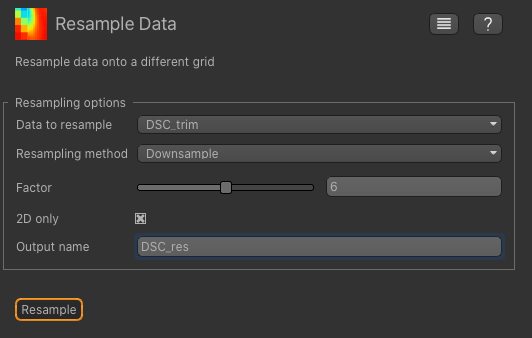
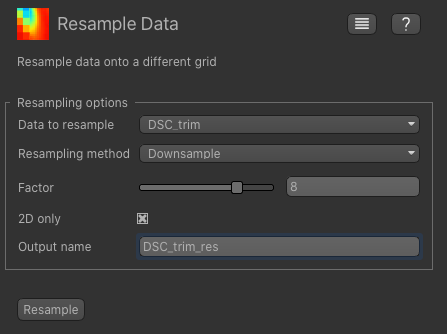
Text tweaks and screenshot updates for DSC tutorial

diff --git a/doc/dsc/dsc_tutorial.rst b/doc/dsc/dsc_tutorial.rst
@@ -27,7 +27,7 @@ If you are taking part in an organized practical workshop, the data required may
 directory, in the ``course_data/dsc`` folder. If not, you will have been given instructions
 on how to obtain the data from the course organizers.
 
-We will start by loading the main DSC data file for the subject ``patient-03`:
+We will start by loading the main DSC data file for the subject ``patient-03``:
 
   - ``DSC.nii.gz``
 
@@ -123,8 +123,9 @@ First we need to take the mean of the DSC timeseries so we have a 3D data set. T
 
 .. image:: /screenshots/dsc_mean.png
 
-From the ``Widgets`` menu select ``FSL->BET`` and then as input data choose our resampled DSC data ``DSC_res``.
-Check the ``Output mask`` option so we get a binary ROI mask for the brain. 
+Now, from the ``Widgets`` menu select ``FSL->BET`` and then as input data choose the mean of our trimmed 
+and resampled DSC data ``DSC_trim_res_mean``. Check the ``Output brain mask`` option so we get a binary 
+ROI mask for the brain. 
 
 .. image:: /screenshots/dsc_bet.png
 
@@ -150,7 +151,8 @@ AIF
 Analysis of DSC data requires the arterial input function to be specified. This is a timeseries that corresponds to
 the supply of the bolus in a feeding artery. The AIF can be defined in various ways, in the case of this data set
 we have already identified a feeding artery in the image and created a small ROI mask identifying it. To load this ROI,
-load the file ``AIFx4.nii.gz`` either from ``File->Load`` or by drag and drop.
+load the file ``AIFx4.nii.gz`` either from ``File->Load`` or by drag and drop. Make sure you select 'ROI' as the data
+set type.
 
 You will probably not be able to see the ROI because it is only 3 very small voxels, but we can extract the DSC signal
 in these voxels using the ``Utilities->AIF`` widget. Open this widget, set the trimmed (but *not* resampled) DSC data
@@ -171,7 +173,7 @@ should look something like this:
 .. image:: /screenshots/dsc_tutorial_widget.png
 
 For the data select our trimmed and resampled DSC data: ``DSC_trim_res``. For the ROI select the whole brain mask
-``DSC_trim_res_mean_mask``. The TE is 0.03s and the TR is 1.25s - you can find these values in the metadata file ``DSC.json``.
+``DSC_trim_res_mean_brain_mask``. The TE is 0.03s and the TR is 1.25s - you can find these values in the metadata file ``DSC.json``.
 
 We also recommend you set 'Log transform on rCBF' as this prevents negative values in the CBF output. Also, for 
 this tutorial you should change 'Spatial regularization' to 'None' - this makes the analysis quicker to run and less
